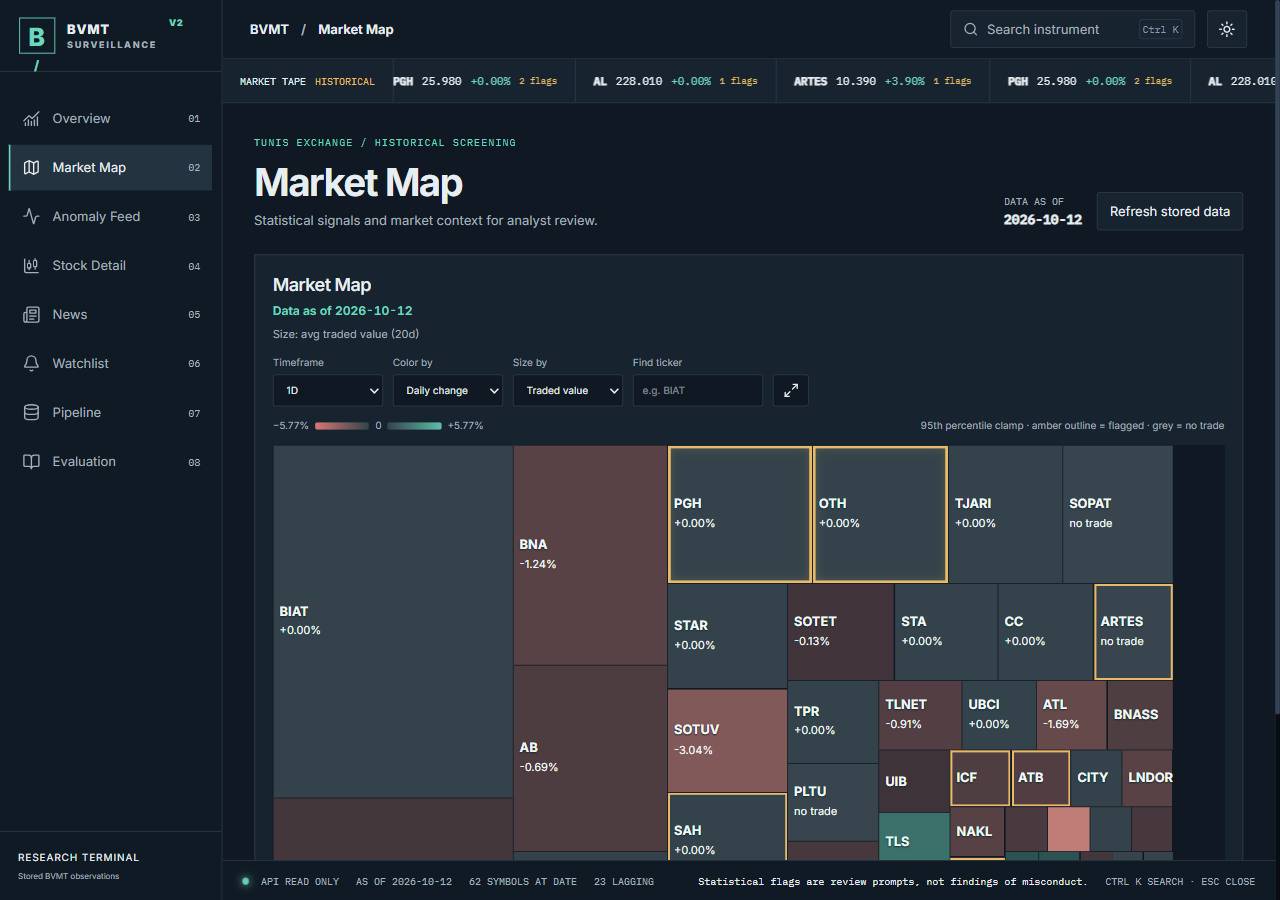
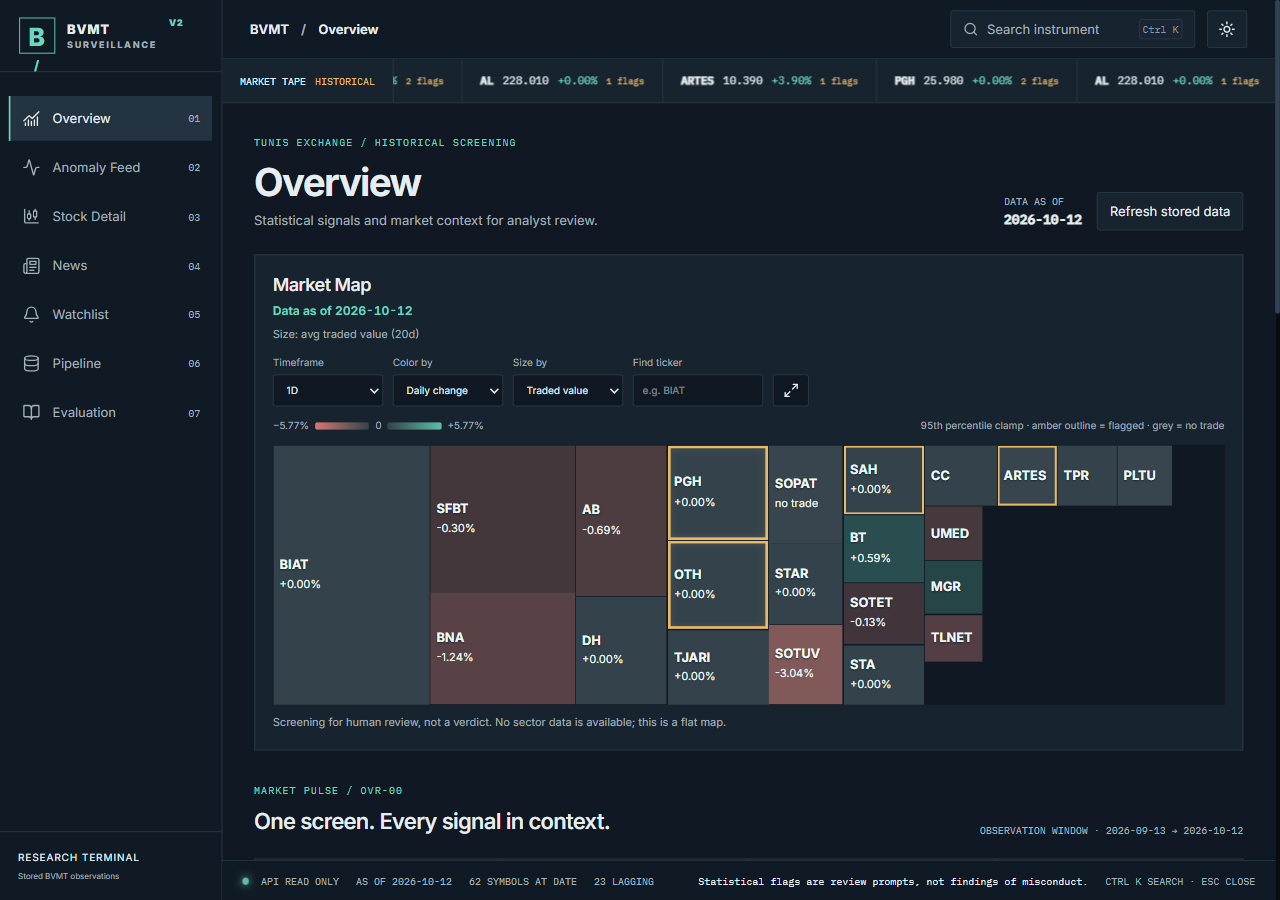
refactor: keep Market Map only on Overview

diff --git a/frontend/src/components/MarketMap.tsx b/frontend/src/components/MarketMap.tsx
@@ -100,22 +100,14 @@ function percentile95(values: number[]) {
   return Math.max(0.01, sorted[low] + (sorted[high] - sorted[low]) * (rank - low))
 }
 
-export default function MarketMap({
-  compact = false,
-  open,
-  goFull,
-}: {
-  compact?: boolean
-  open: (symbol: string) => void
-  goFull?: () => void
-}) {
+export default function MarketMap({ open }: { open: (symbol: string) => void }) {
   const [tf, setTf] = useState<Timeframe>('1D')
   const [colorBy, setColorBy] = useState<ColorBy>('Daily change')
   const [sizeBy, setSizeBy] = useState<SizeBy>('Traded value')
   const [search, setSearch] = useState('')
   const [fullscreen, setFullscreen] = useState(false)
   const [active, setActive] = useState(0)
-  const [dimensions, setDimensions] = useState({ width: 900, height: compact ? 260 : 540 })
+  const [dimensions, setDimensions] = useState({ width: 900, height: 260 })
   const surface = useRef<HTMLDivElement>(null)
   const tilesRef = useRef<HTMLDivElement>(null)
   const previous = useRef(new Map<string, { x: number; y: number }>())
@@ -131,12 +123,12 @@ export default function MarketMap({
       const width = entry.contentRect.width
       setDimensions({
         width,
-        height: fullscreen ? Math.max(300, innerHeight - 280) : compact ? 260 : 540,
+        height: fullscreen ? Math.max(300, innerHeight - 280) : 260,
       })
     })
     observer.observe(surface.current)
     return () => observer.disconnect()
-  }, [compact, fullscreen])
+  }, [fullscreen])
   const ordered = useMemo(
     () => rows.slice().sort((a, b) => a.symbol.localeCompare(b.symbol)),
     [rows],
@@ -234,10 +226,7 @@ export default function MarketMap({
   if (query.isPending) return <Loading />
   if (query.isError) return <Failure error={query.error} retry={() => void query.refetch()} />
   return (
-    <section
-      className={`market-map ${compact ? 'compact' : ''} ${fullscreen ? 'fullscreen' : ''}`}
-      aria-label="Market Map"
-    >
+    <section className={`market-map ${fullscreen ? 'fullscreen' : ''}`} aria-label="Market Map">
       <div className="market-map-head">
         <div>
           <h2>Market Map</h2>
@@ -250,56 +239,49 @@ export default function MarketMap({
                 : 'Size: equal'}
           </span>
         </div>
-        {compact && (
-          <button className="v2-small-button" onClick={goFull}>
-            Open full map ↗
-          </button>
-        )}
       </div>
-      {!compact && (
-        <div className="market-controls">
-          <label>
-            Timeframe{' '}
-            <select value={tf} onChange={(e) => setTf(e.target.value as Timeframe)}>
-              {(['1D', '1W', '1M', 'YTD'] as const).map((v) => (
-                <option key={v}>{v}</option>
-              ))}
-            </select>
-          </label>
-          <label>
-            Color by{' '}
-            <select value={colorBy} onChange={(e) => setColorBy(e.target.value as ColorBy)}>
-              {(['Daily change', 'Max |z|', 'Flag intensity'] as const).map((v) => (
-                <option key={v}>{v}</option>
-              ))}
-            </select>
-          </label>
-          <label>
-            Size by{' '}
-            <select value={sizeBy} onChange={(e) => setSizeBy(e.target.value as SizeBy)}>
-              {(['Traded value', 'Flag count', 'Equal'] as const).map((v) => (
-                <option key={v}>{v}</option>
-              ))}
-            </select>
-          </label>
-          <label>
-            Find ticker{' '}
-            <input
-              type="search"
-              value={search}
-              onChange={(e) => setSearch(e.target.value.toUpperCase())}
-              placeholder="e.g. BIAT"
-            />
-          </label>
-          <button
-            className="market-fullscreen"
-            onClick={() => setFullscreen(!fullscreen)}
-            aria-label={fullscreen ? 'Exit fullscreen' : 'Fullscreen map'}
-          >
-            {fullscreen ? <Minimize2 size={16} /> : <Maximize2 size={16} />}
-          </button>
-        </div>
-      )}
+      <div className="market-controls">
+        <label>
+          Timeframe{' '}
+          <select value={tf} onChange={(e) => setTf(e.target.value as Timeframe)}>
+            {(['1D', '1W', '1M', 'YTD'] as const).map((v) => (
+              <option key={v}>{v}</option>
+            ))}
+          </select>
+        </label>
+        <label>
+          Color by{' '}
+          <select value={colorBy} onChange={(e) => setColorBy(e.target.value as ColorBy)}>
+            {(['Daily change', 'Max |z|', 'Flag intensity'] as const).map((v) => (
+              <option key={v}>{v}</option>
+            ))}
+          </select>
+        </label>
+        <label>
+          Size by{' '}
+          <select value={sizeBy} onChange={(e) => setSizeBy(e.target.value as SizeBy)}>
+            {(['Traded value', 'Flag count', 'Equal'] as const).map((v) => (
+              <option key={v}>{v}</option>
+            ))}
+          </select>
+        </label>
+        <label>
+          Find ticker{' '}
+          <input
+            type="search"
+            value={search}
+            onChange={(e) => setSearch(e.target.value.toUpperCase())}
+            placeholder="e.g. BIAT"
+          />
+        </label>
+        <button
+          className="market-fullscreen"
+          onClick={() => setFullscreen(!fullscreen)}
+          aria-label={fullscreen ? 'Exit fullscreen' : 'Fullscreen map'}
+        >
+          {fullscreen ? <Minimize2 size={16} /> : <Maximize2 size={16} />}
+        </button>
+      </div>
       <div
         className="market-legend"
         aria-label={`${colorBy} scale clamped at 95th percentile of absolute values: ${fmt(clamp)}${colorBy === 'Daily change' ? '%' : ''}`}

diff --git a/frontend/src/App.tsx b/frontend/src/App.tsx
@@ -10,7 +10,6 @@ import {
   ChartNoAxesCombined,
   Database,
   Menu,
-  Map,
   Moon,
   Newspaper,
   Search,
@@ -30,18 +29,15 @@ import { Inspector } from './components/Inspector'
 import './terminal.css'
 
 const OverviewPage = lazy(() => import('./pages/OverviewPage'))
-const MarketMap = lazy(() => import('./components/MarketMap'))
 const FeedPage = lazy(() => import('./pages/FeedPage'))
 const StockPage = lazy(() => import('./pages/StockPage'))
 const NewsPage = lazy(() => import('./pages/NewsPage'))
 const WatchlistPage = lazy(() => import('./pages/WatchlistPage'))
 const PipelinePage = lazy(() => import('./pages/PipelinePage'))
 const EvaluationPage = lazy(() => import('./pages/EvaluationPage'))
-export type Page =
-  'overview' | 'market-map' | 'feed' | 'stock' | 'news' | 'watchlist' | 'pipeline' | 'evaluation'
+export type Page = 'overview' | 'feed' | 'stock' | 'news' | 'watchlist' | 'pipeline' | 'evaluation'
 const pages = [
   { id: 'overview', label: 'Overview', icon: ChartNoAxesCombined },
-  { id: 'market-map', label: 'Market Map', icon: Map },
   { id: 'feed', label: 'Anomaly Feed', icon: Activity },
   { id: 'stock', label: 'Stock Detail', icon: ChartCandlestick },
   { id: 'news', label: 'News', icon: Newspaper },
@@ -322,8 +318,6 @@ export default function App() {
           <Suspense fallback={<Loading />}>
             {page === 'overview' ? (
               <OverviewPage overview={overview} go={go} open={open} />
-            ) : page === 'market-map' ? (
-              <MarketMap open={open} />
             ) : page === 'feed' ? (
               <FeedPage open={open} />
             ) : page === 'stock' ? (

diff --git a/frontend/src/pages/OverviewPage.tsx b/frontend/src/pages/OverviewPage.tsx
@@ -135,7 +135,7 @@ export default function OverviewPage({
   ]
   return (
     <div className="v2-page v2-overview" ref={pageRef}>
-      <MarketMap compact open={open} goFull={() => go('market-map')} />
+      <MarketMap open={open} />
       <div className="v2-pulse-title">
         <div>
           <span className="v2-eyebrow">MARKET PULSE / OVR-00</span>
